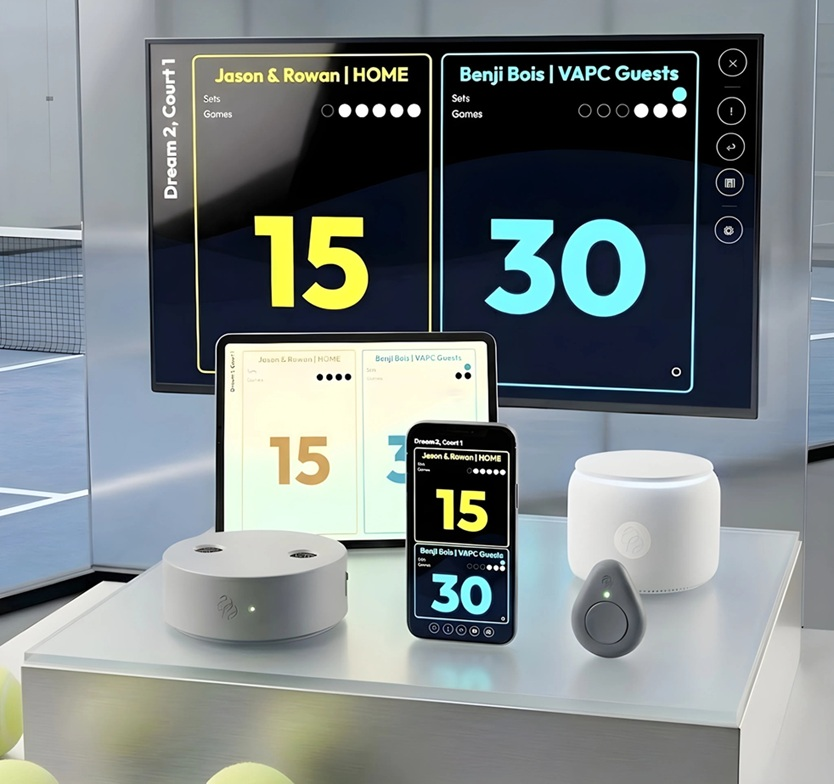
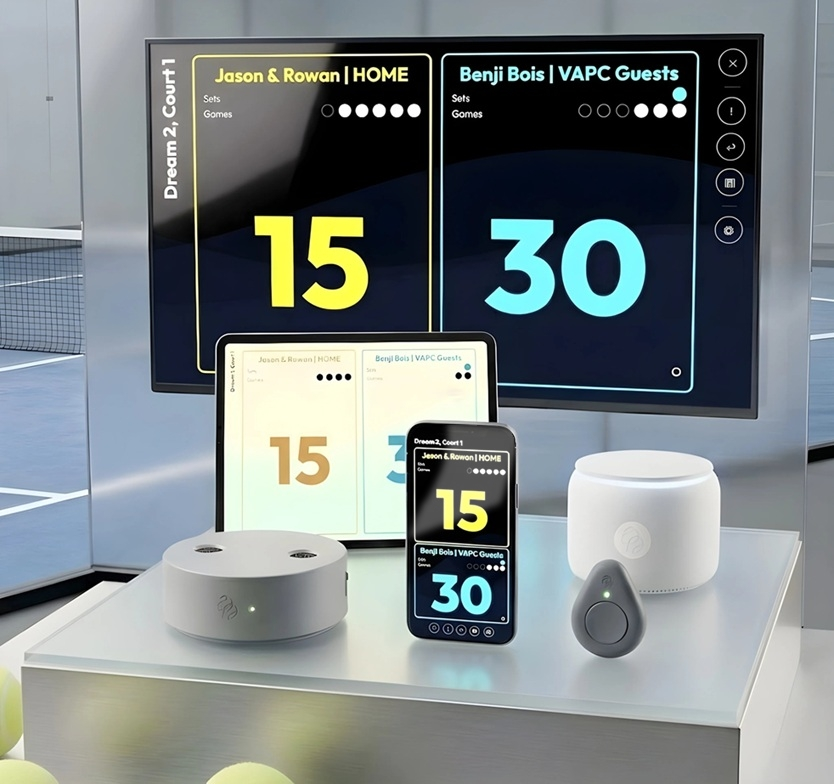
Landing page updates

Changed region(s): [[0.4988, 0.5204, 0.6235, 0.7041]]

diff --git a/app/css/style.css b/app/css/style.css
@@ -2306,6 +2306,147 @@ body.light-mode .court-item-info {
   min-width: 0;
 }
 
+.left-group {
+  display: flex;
+  align-items: center;
+  min-width: 0;
+  flex: 1;
+}
+
+.scoreboard-branding {
+  display: flex;
+  align-items: center;
+  gap: 8px;
+  flex-shrink: 0;
+}
+
+.scoreboard-logo {
+  width: clamp(24px, 6vmin, 48px);
+  height: auto;
+  filter: drop-shadow(0 0 5px rgba(255, 255, 255, 0.2));
+}
+
+body.light-mode .scoreboard-logo {
+  filter: invert(1) drop-shadow(0 0 5px rgba(0, 0, 0, 0.1));
+}
+
+.scoreboard-app-name {
+  font-family: "Outfit", sans-serif;
+  font-weight: 800;
+  font-size: clamp(1.1rem, 5vmin, 2.5rem);
+  text-transform: uppercase;
+  letter-spacing: 1.5px;
+  color: var(--white);
+  white-space: nowrap;
+}
+
+.marquee-separator {
+  color: rgba(255, 255, 255, 0.3);
+  font-weight: 300;
+  margin: 0 15px;
+  font-size: clamp(1.1rem, 5vmin, 2.5rem);
+}
+
+#courtTitle {
+  font-family: "Outfit", sans-serif;
+  font-weight: 800;
+  font-size: clamp(1.1rem, 5vmin, 2.5rem);
+  text-transform: uppercase;
+  letter-spacing: 1.5px;
+  color: var(--white);
+  white-space: nowrap;
+}
+
+.marquee-wrapper {
+  width: 100%;
+  overflow: hidden;
+  white-space: nowrap;
+  position: relative;
+  mask-image: linear-gradient(to right, transparent, black 10%, black 90%, transparent);
+  -webkit-mask-image: linear-gradient(to right, transparent, black 10%, black 90%, transparent);
+}
+
+.marquee-content {
+  display: flex;
+  align-items: center;
+  justify-content: center;
+  width: max-content;
+  min-width: 100%;
+  transition: transform 0.3s ease;
+}
+
+.marquee-content.scrolling {
+  padding-left: 100%;
+  animation: marquee 12s linear infinite;
+  justify-content: flex-start;
+}
+
+@keyframes marquee {
+  0% {
+    transform: translateX(0);
+  }
+
+  100% {
+    transform: translateX(-100%);
+  }
+}
+
+@media (orientation: landscape) {
+  .left-group {
+    width: 100%;
+    height: 100%;
+    justify-content: center;
+  }
+
+  .marquee-wrapper {
+    height: 100%;
+    width: clamp(50px, 8vmin, 85px);
+    mask-image: linear-gradient(to bottom, transparent, black 10%, black 90%, transparent);
+    -webkit-mask-image: linear-gradient(to bottom, transparent, black 10%, black 90%, transparent);
+  }
+
+  .marquee-content {
+    flex-direction: column;
+    padding-left: 0;
+    width: 100%;
+    min-height: 100%;
+    justify-content: center;
+  }
+
+  .marquee-content.scrolling {
+    padding-top: 100%;
+    animation: marquee-vertical 15s linear infinite;
+    justify-content: flex-start;
+  }
+
+  .scoreboard-branding {
+    flex-direction: column;
+    gap: 10px;
+  }
+
+  .scoreboard-app-name,
+  #courtTitle {
+    writing-mode: vertical-rl;
+    transform: rotate(180deg);
+    text-align: center;
+  }
+
+  .marquee-separator {
+    margin: 15px 0;
+    transform: rotate(90deg);
+  }
+}
+
+@keyframes marquee-vertical {
+  0% {
+    transform: translateY(0);
+  }
+
+  100% {
+    transform: translateY(-100%);
+  }
+}
+
 @media (orientation: landscape) {
   .left-group {
     flex-direction: column;
@@ -3927,6 +4068,59 @@ body.light-mode .set-win-label {
 
 .toast.info {
   border: 1px solid #3498db;
+}
+
+.toast.warning {
+  border: 1px solid #f1c40f;
+}
+
+display: flex;
+flex-direction: column;
+gap: 10px;
+pointer-events: none;
+}
+
+.toast {
+  padding: 12px 24px;
+  border-radius: 50px;
+  background: rgba(0, 0, 0, 0.85);
+  color: white;
+  font-weight: 600;
+  font-size: 0.9rem;
+  box-shadow: 0 4px 15px rgba(0, 0, 0, 0.3);
+  backdrop-filter: blur(10px);
+  animation: toastFadeIn 0.3s ease forwards;
+  pointer-events: auto;
+  min-width: 200px;
+  text-align: center;
+}
+
+@keyframes toastFadeIn {
+  from {
+    opacity: 0;
+    transform: translateY(20px);
+  }
+
+  to {
+    opacity: 1;
+    transform: translateY(0);
+  }
+}
+
+.toast.success {
+  border: 1px solid #2ecc71;
+}
+
+.toast.error {
+  border: 1px solid #e74c3c;
+}
+
+.toast.info {
+  border: 1px solid #3498db;
+}
+
+.toast.warning {
+  border: 1px solid #f1c40f;
 }
 
 .toast.warning {

diff --git a/app/js/script.js b/app/js/script.js
@@ -1208,7 +1208,38 @@ document.addEventListener("DOMContentLoaded", () =>
   function showCourtTitle(name)
   {
     const existing = document.getElementById("courtTitle");
-    if (existing) existing.textContent = name;
+    if (existing)
+    {
+      existing.textContent = name;
+      updateMarqueeScrolling();
+    }
+  }
+
+  function updateMarqueeScrolling()
+  {
+    const container = document.querySelector(".marquee-wrapper");
+    const content = document.querySelector(".marquee-content");
+    if (!container || !content) return;
+
+    // Reset before measuring
+    content.classList.remove("scrolling");
+
+    const isLandscape = window.innerHeight < window.innerWidth && window.matchMedia("(orientation: landscape)").matches;
+
+    if (isLandscape)
+    {
+      if (content.scrollHeight > container.clientHeight)
+      {
+        content.classList.add("scrolling");
+      }
+    }
+    else
+    {
+      if (content.scrollWidth > container.clientWidth)
+      {
+        content.classList.add("scrolling");
+      }
+    }
   }
 
   elements.createCourtBtn.addEventListener("click", async () =>
@@ -2456,6 +2487,7 @@ document.addEventListener("DOMContentLoaded", () =>
   {
     document.querySelectorAll(".team-name .name-text")
       .forEach(fitTextToContainer);
+    updateMarqueeScrolling();
   });
 
 

diff --git a/app/index.html b/app/index.html
@@ -11,7 +11,9 @@
   <!-- Google Fonts -->
   <link rel="preconnect" href="https://fonts.googleapis.com" />
   <link rel="preconnect" href="https://fonts.gstatic.com" crossorigin />
-  <link href="https://fonts.googleapis.com/css2?family=Inter:wght@300;400;600;700;800;900&family=Outfit:wght@300;400;600;700;800;900&display=swap" rel="stylesheet" />
+  <link
+    href="https://fonts.googleapis.com/css2?family=Inter:wght@300;400;600;700;800;900&family=Outfit:wght@300;400;600;700;800;900&display=swap"
+    rel="stylesheet" />
   <link rel="stylesheet" href="css/style.css" />
   <script type="module" src="js/script.js"></script>
   <link rel="icon" type="image/svg+xml" href="media/img/favicon.svg">
@@ -440,7 +442,16 @@
         <!-- SIDEBAR (Landscape) / HEADER (Portrait) -->
         <aside class="sidebar-left">
           <div class="left-group">
-            <span id="courtTitle"></span>
+            <div class="marquee-wrapper">
+              <div class="marquee-content">
+                <div class="scoreboard-branding">
+                  <img src="media/img/logo.svg" alt="Padel Push Logo" class="scoreboard-logo" />
+                  <span class="scoreboard-app-name">Padel Push</span>
+                </div>
+                <span class="marquee-separator">/</span>
+                <span id="courtTitle"></span>
+              </div>
+            </div>
           </div>
 
           <!-- Spectator badge is injected by JS here -->
@@ -544,6 +555,10 @@
     </div>
 
   </div> <!-- CONTENT CONTAINER -->
+</body>
+
+</html>
+</div> <!-- CONTENT CONTAINER -->
 </body>
 
 </html>

diff --git a/index.html b/index.html
@@ -542,12 +542,12 @@
       height: 48px;
       border-radius: 50%;
       background: var(--brand-strong);
-      padding: 10px;
+      padding: 5px;
       display: flex;
       align-items: center;
       justify-content: center;
       box-shadow: 0 4px 12px rgba(0, 0, 0, 0.2);
-      border: 2px solid white;
+      border: 0px solid white;
     }
 
     .device-icon img {